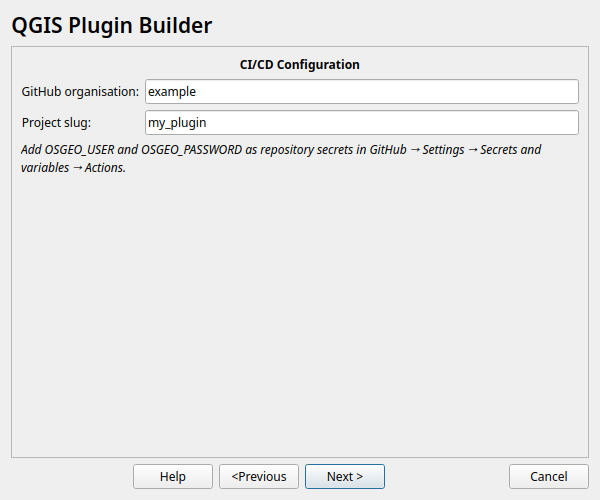
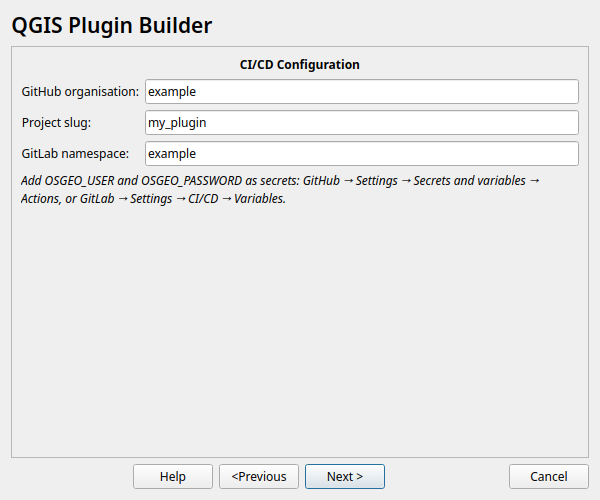
update help images

Changed region(s): [[0.03, 0.27, 0.93, 0.42]]

diff --git a/scripts/capture_docs_images.py b/scripts/capture_docs_images.py
@@ -142,6 +142,8 @@ PAGES = [
 ]
 
 dialog.qgis_plugin_ci_cb.setChecked(True)
+dialog.gitlab_ci_cb.setChecked(True)
+dialog.gitlab_namespace.setText(SAMPLE["github_org_slug"])
 
 dialog.show()
 app.processEvents()
